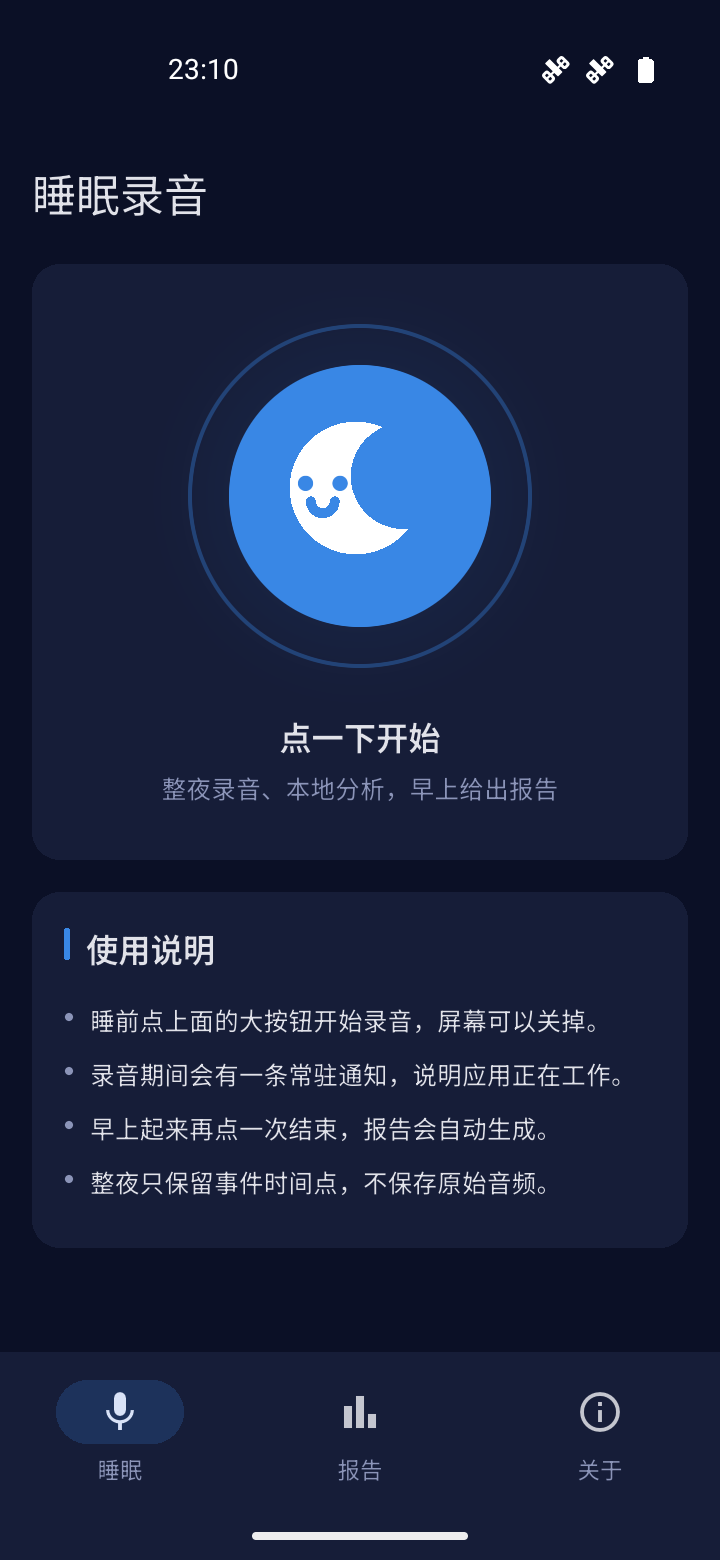
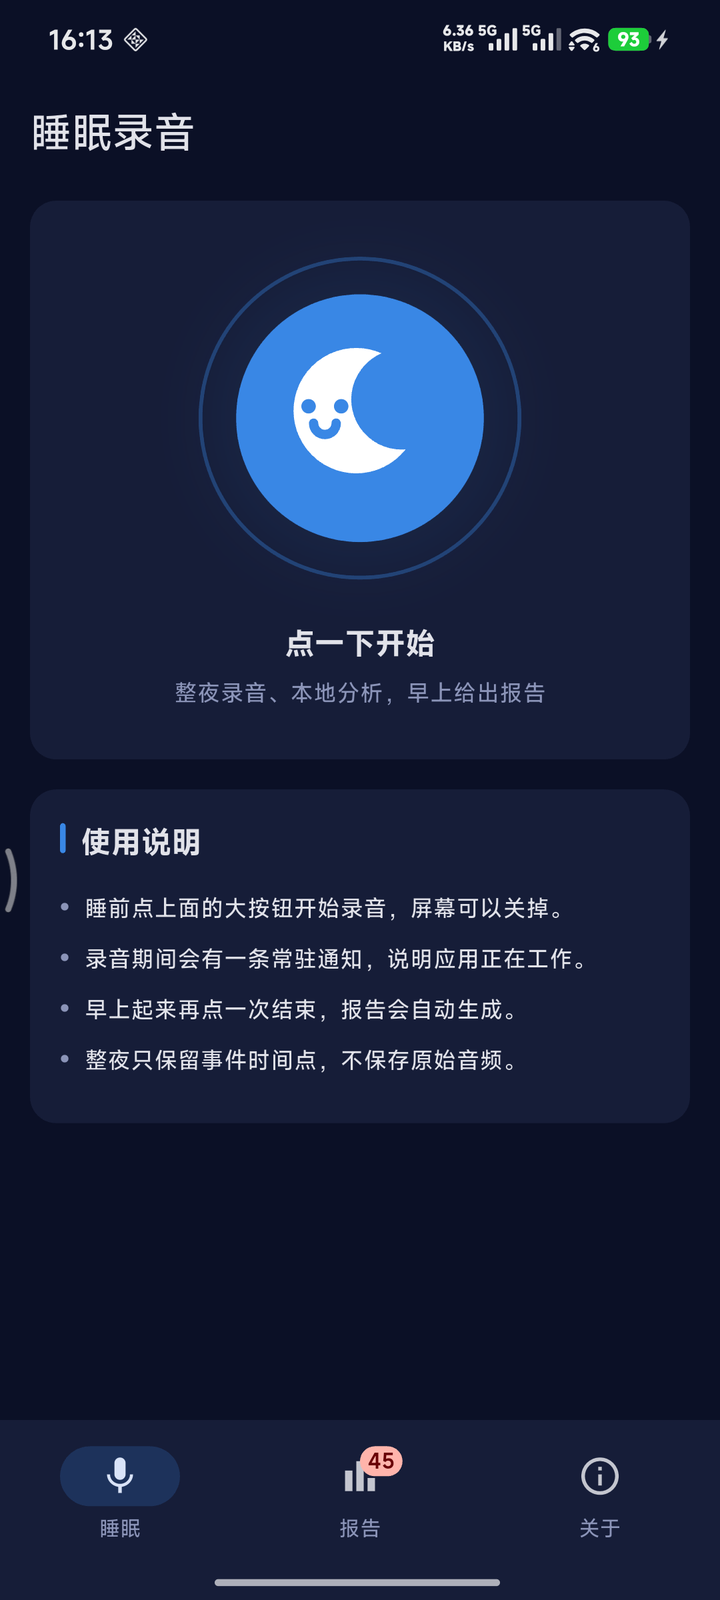
docs: 更新宣传截图（45 晚真实数据） (#49)
* docs: 更新宣传截图（45 晚真实数据）

替换 10 月 8 日只有 2 晚数据的旧图；新图来自真机 Redmi K80，
含评分趋势、45 条历史记录与单晚评分构成。

* docs: 同步截图 alt 中的隐藏鼾声段数（19→69）

diff --git a/README.en.md b/README.en.md
@@ -14,7 +14,7 @@ The only exception is if **you** set up Nutstore / WebDAV on the export page —
 
 **Docs**: <https://mygithub.sixiangjia.de/sleep-secret/en/> ([Guide](https://mygithub.sixiangjia.de/sleep-secret/en/guide/) · [Reading the report](https://mygithub.sixiangjia.de/sleep-secret/en/report/) · [Data & privacy](https://mygithub.sixiangjia.de/sleep-secret/en/privacy/))
 
-<img src="docs/screenshots/1-recording-idle.png" width="170" alt="Recording screen, idle: the moon has its eyes open"> <img src="docs/screenshots/2-recording-active.png" width="170" alt="Recording: the moon is asleep, floating Zs"> <img src="docs/screenshots/3-reports.png" width="170" alt="Report list and score trend"> <img src="docs/screenshots/4-report-detail.png" width="170" alt="A single night: score and the snore display threshold at the top"> <img src="docs/screenshots/6-snore-filter.png" width="170" alt="Snore display threshold at 80%: the whole report follows, with “19 lower-confidence snores are not shown”"> <img src="docs/screenshots/5-detailed-view.png" width="170" alt="Detailed view: the raw AudioSet labels the model produced">
+<img src="docs/screenshots/1-recording-idle.png" width="170" alt="Recording screen, idle: the moon has its eyes open"> <img src="docs/screenshots/2-recording-active.png" width="170" alt="Recording: the moon is asleep, floating Zs"> <img src="docs/screenshots/3-reports.png" width="170" alt="Report list and score trend"> <img src="docs/screenshots/4-report-detail.png" width="170" alt="A single night: score and the snore display threshold at the top"> <img src="docs/screenshots/6-snore-filter.png" width="170" alt="Snore display threshold at 80%: the whole report follows, with “69 lower-confidence snores are not shown”"> <img src="docs/screenshots/5-detailed-view.png" width="170" alt="Detailed view: the raw AudioSet labels the model produced">
 
 <br>
 

diff --git a/README.md b/README.md
@@ -14,7 +14,7 @@
 
 **文档站**：<https://mygithub.sixiangjia.de/sleep-secret/>（[使用指南](https://mygithub.sixiangjia.de/sleep-secret/guide/) · [看懂报告](https://mygithub.sixiangjia.de/sleep-secret/report/) · [数据与隐私](https://mygithub.sixiangjia.de/sleep-secret/privacy/)）
 
-<img src="docs/screenshots/1-recording-idle.png" width="170" alt="录音页待机：月亮睁着眼"> <img src="docs/screenshots/2-recording-active.png" width="170" alt="录音中：月亮睡着了，飘着 Z"> <img src="docs/screenshots/3-reports.png" width="170" alt="报告列表与评分趋势"> <img src="docs/screenshots/4-report-detail.png" width="170" alt="单晚报告：评分与顶部的鼾声展示门槛"> <img src="docs/screenshots/6-snore-filter.png" width="170" alt="鼾声展示门槛拉到 80%：整份报告跟着变，并写着「还有 19 段更低把握的鼾声没有显示」"> <img src="docs/screenshots/5-detailed-view.png" width="170" alt="详细视图（单独一页）：模型给出的原始 AudioSet 标签与中文对照">
+<img src="docs/screenshots/1-recording-idle.png" width="170" alt="录音页待机：月亮睁着眼"> <img src="docs/screenshots/2-recording-active.png" width="170" alt="录音中：月亮睡着了，飘着 Z"> <img src="docs/screenshots/3-reports.png" width="170" alt="报告列表与评分趋势"> <img src="docs/screenshots/4-report-detail.png" width="170" alt="单晚报告：评分与顶部的鼾声展示门槛"> <img src="docs/screenshots/6-snore-filter.png" width="170" alt="鼾声展示门槛拉到 80%：整份报告跟着变，并写着「还有 69 段更低把握的鼾声没有显示」"> <img src="docs/screenshots/5-detailed-view.png" width="170" alt="详细视图（单独一页）：模型给出的原始 AudioSet 标签与中文对照">
 
 <br>
 
